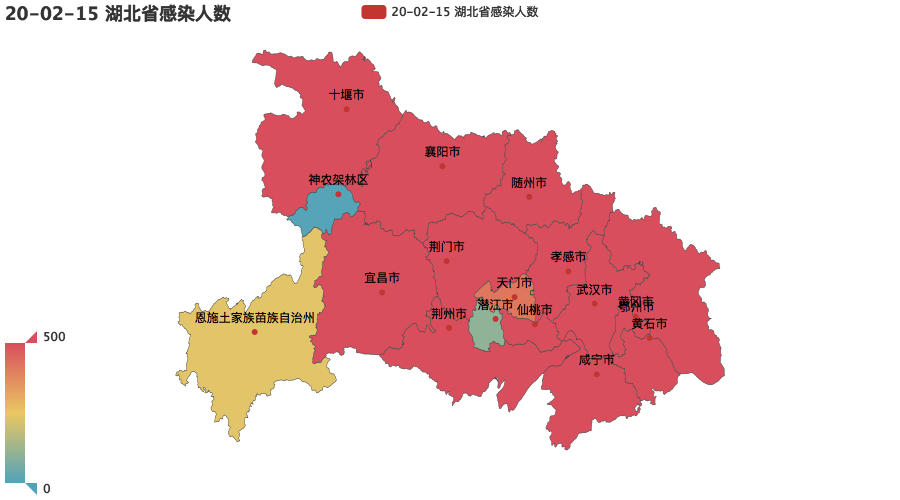
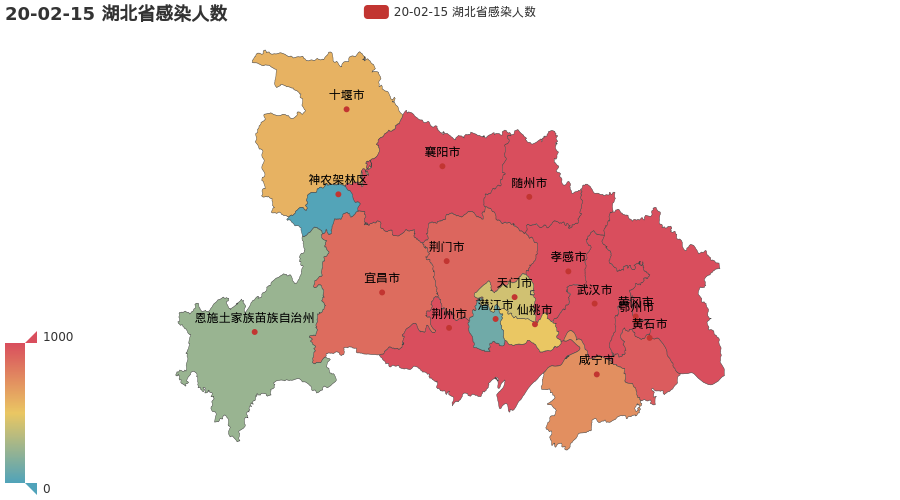
Update figures by GitHub Actions

diff --git a/img/hubei_distribution.html b/img/hubei_distribution.html
@@ -8,11 +8,11 @@
 
 </head>
 <body>
-    <div id="de2b6ac2951d444495b1e300b0912888" class="chart-container" style="width:900px; height:500px;"></div>
+    <div id="3c9dd51fc3864552996ca058bb8513c0" class="chart-container" style="width:900px; height:500px;"></div>
     <script>
-        var chart_de2b6ac2951d444495b1e300b0912888 = echarts.init(
-            document.getElementById('de2b6ac2951d444495b1e300b0912888'), 'white', {renderer: 'canvas'});
-        var option_de2b6ac2951d444495b1e300b0912888 = {
+        var chart_3c9dd51fc3864552996ca058bb8513c0 = echarts.init(
+            document.getElementById('3c9dd51fc3864552996ca058bb8513c0'), 'white', {renderer: 'canvas'});
+        var option_3c9dd51fc3864552996ca058bb8513c0 = {
     "animation": true,
     "animationThreshold": 2000,
     "animationDuration": 1000,
@@ -171,7 +171,7 @@
         "show": true,
         "type": "continuous",
         "min": 0,
-        "max": 500,
+        "max": 1000,
         "inRange": {
             "color": [
                 "#50a3ba",
@@ -189,7 +189,7 @@
         "borderWidth": 0
     }
 };
-        chart_de2b6ac2951d444495b1e300b0912888.setOption(option_de2b6ac2951d444495b1e300b0912888);
+        chart_3c9dd51fc3864552996ca058bb8513c0.setOption(option_3c9dd51fc3864552996ca058bb8513c0);
     </script>
 </body>
 </html>

diff --git a/img/overall_distribution.html b/img/overall_distribution.html
@@ -8,11 +8,11 @@
 
 </head>
 <body>
-    <div id="1ded9ae2092741c2a1e106960b3d62a0" class="chart-container" style="width:900px; height:500px;"></div>
+    <div id="9394c4d8381644b6817c423152ed9b8f" class="chart-container" style="width:900px; height:500px;"></div>
     <script>
-        var chart_1ded9ae2092741c2a1e106960b3d62a0 = echarts.init(
-            document.getElementById('1ded9ae2092741c2a1e106960b3d62a0'), 'white', {renderer: 'canvas'});
-        var option_1ded9ae2092741c2a1e106960b3d62a0 = {
+        var chart_9394c4d8381644b6817c423152ed9b8f = echarts.init(
+            document.getElementById('9394c4d8381644b6817c423152ed9b8f'), 'white', {renderer: 'canvas'});
+        var option_9394c4d8381644b6817c423152ed9b8f = {
     "animation": true,
     "animationThreshold": 2000,
     "animationDuration": 1000,
@@ -243,7 +243,7 @@
         "show": true,
         "type": "continuous",
         "min": 0,
-        "max": 500,
+        "max": 1000,
         "inRange": {
             "color": [
                 "#50a3ba",
@@ -261,7 +261,7 @@
         "borderWidth": 0
     }
 };
-        chart_1ded9ae2092741c2a1e106960b3d62a0.setOption(option_1ded9ae2092741c2a1e106960b3d62a0);
+        chart_9394c4d8381644b6817c423152ed9b8f.setOption(option_9394c4d8381644b6817c423152ed9b8f);
     </script>
 </body>
 </html>
